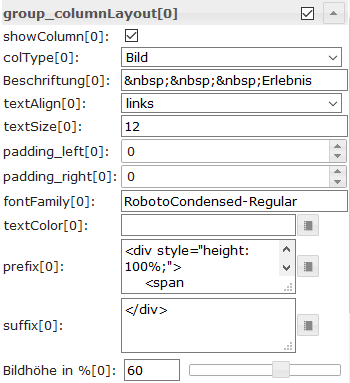
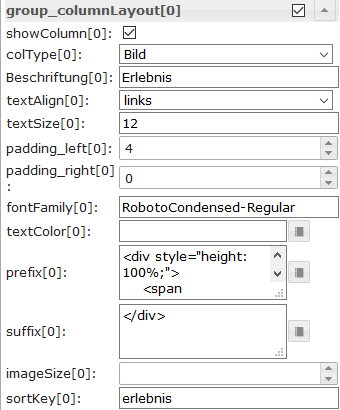
Readme updated

diff --git a/README.md b/README.md
@@ -213,7 +213,7 @@ Input data must be a json array of objects, example:
             <td>Optional, input data as shown above if no oid datapoint is set</td>
         </tr>
         <tr>
-            <td rowspan=3><img src="doc/media/table_column.png"></td>
+            <td rowspan=4><img src="doc/media/table_column.png"></td>
             <td>colType[x]</td>
             <td>If image is selected, object property must have the path to the image (<a href="https://github.com/Scrounger/ioBroker.vis-materialdesign#input-data">see above</a>)</td>
         </tr>
@@ -224,6 +224,10 @@ Input data must be a json array of objects, example:
         <tr>
             <td>suffix[x]</td>
             <td>Suffix for object property, internal object binding (<a href="https://github.com/Scrounger/ioBroker.vis-materialdesign#internal-object-binding">see below</a>) and html can be used</td>
+        </tr>
+        <tr>
+            <td>sortKey[x]</td>
+            <td>Here you can define an other object property that should be used for sorting.</td>
         </tr>
     </tbody>
 </table>
